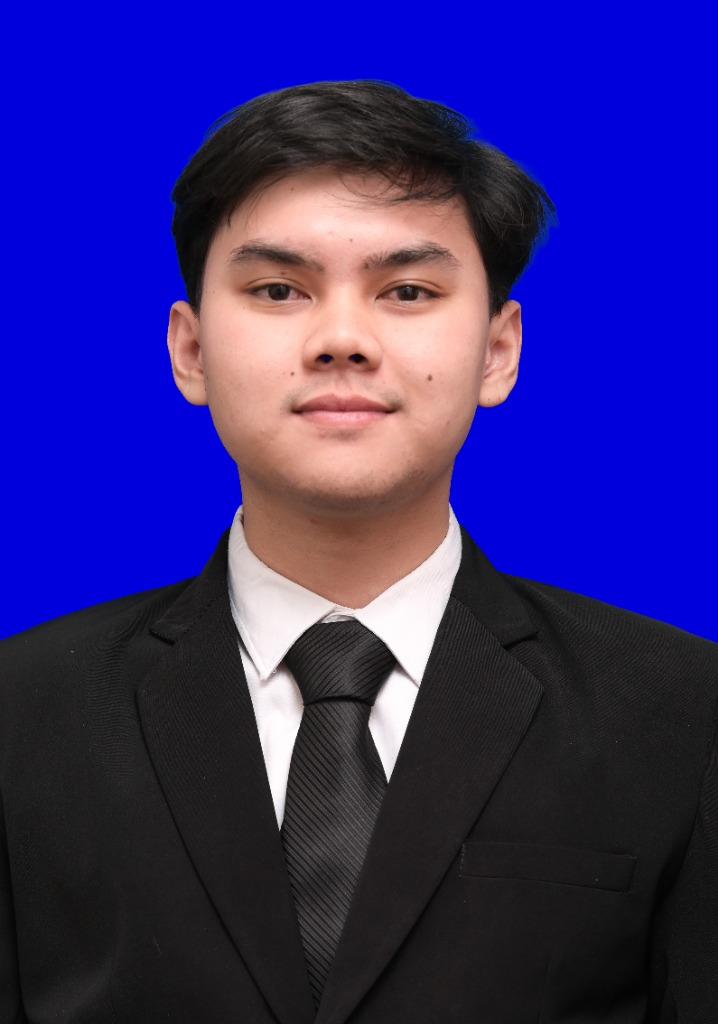
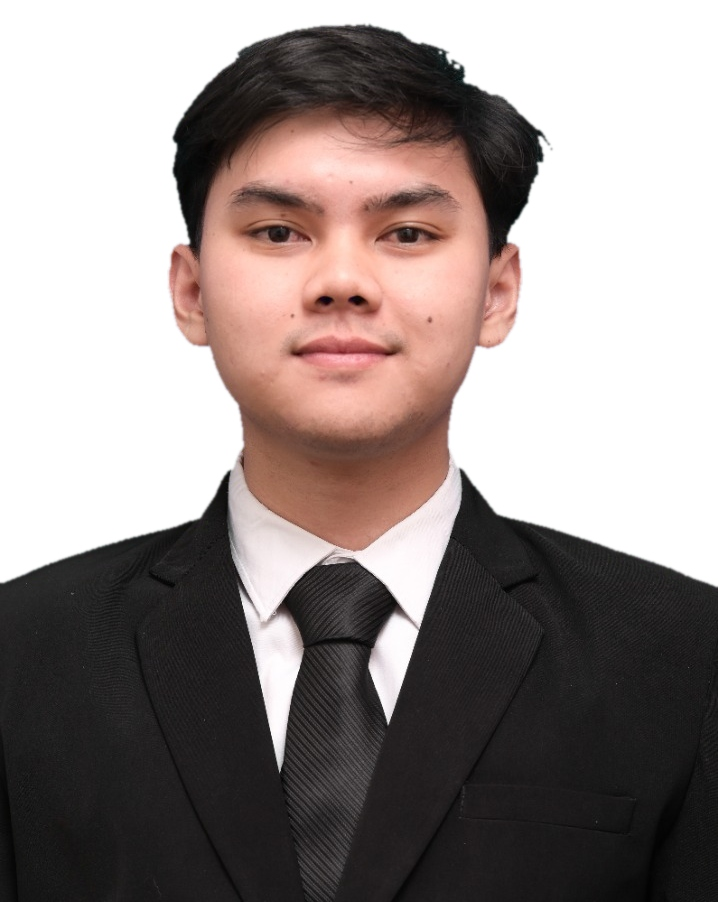
Crop top whitespace to fit snug to head and update card aspect ratio to 718/902

diff --git a/src/App.tsx b/src/App.tsx
@@ -746,17 +746,17 @@ export default function App() {
               </div>
             </div>
 
-            {/* Profile Photo Card fitting exact original photo aspect ratio */}
+            {/* Profile Photo Card fitting exact fitted portrait aspect ratio */}
             <motion.div
               whileHover={{ scale: 1.02, y: -2 }}
               transition={{ type: "spring", stiffness: 300, damping: 20 }}
               className="shrink-0 relative group self-center md:self-start"
             >
-              <div className="relative w-36 sm:w-44 md:w-48 aspect-[718/1024] rounded-[24px] overflow-hidden p-1 bg-gradient-to-b from-neutral-200 to-neutral-300 dark:from-neutral-700 dark:to-neutral-800 shadow-xl shadow-neutral-900/10 dark:shadow-black/40 ring-1 ring-black/5 dark:ring-white/10">
+              <div className="relative w-36 sm:w-44 md:w-48 aspect-[718/902] rounded-[24px] overflow-hidden p-1 bg-gradient-to-b from-neutral-200 to-neutral-300 dark:from-neutral-700 dark:to-neutral-800 shadow-xl shadow-neutral-900/10 dark:shadow-black/40 ring-1 ring-black/5 dark:ring-white/10">
                 <img
                   src={PROFILE.avatar}
                   alt={PROFILE.name}
-                  className="w-full h-full object-cover rounded-[20px] select-none"
+                  className="w-full h-full object-cover rounded-[20px] bg-white select-none"
                 />
               </div>
               <div
